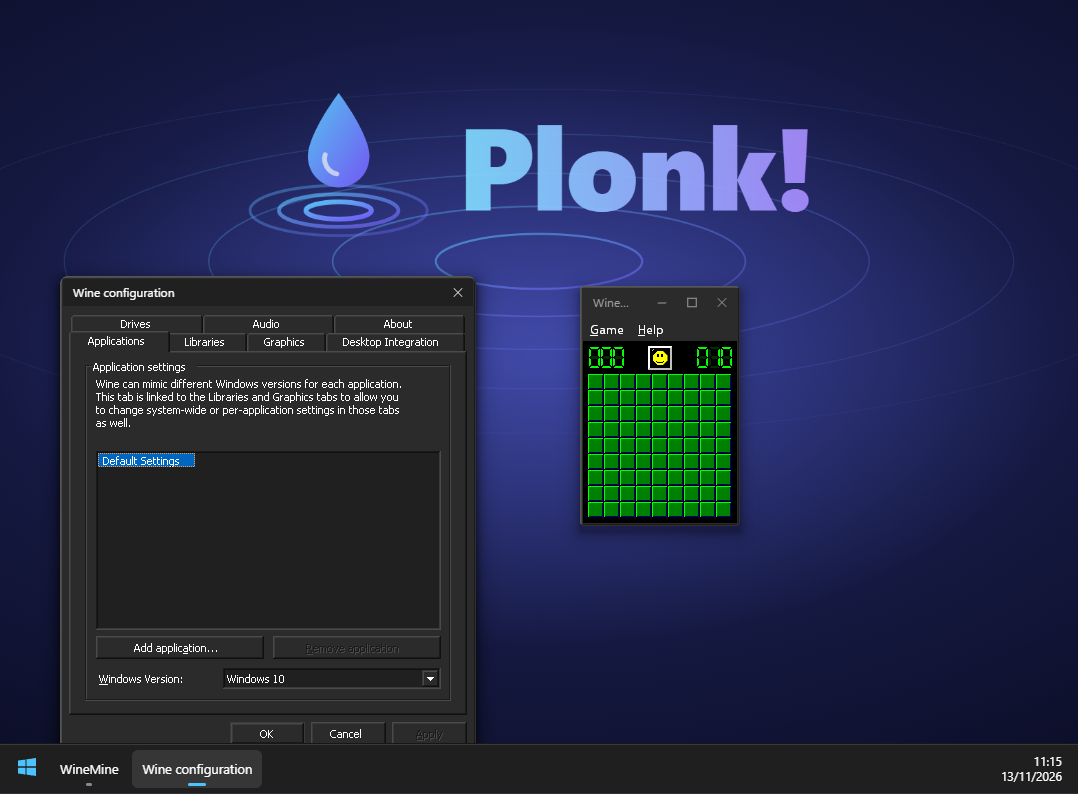
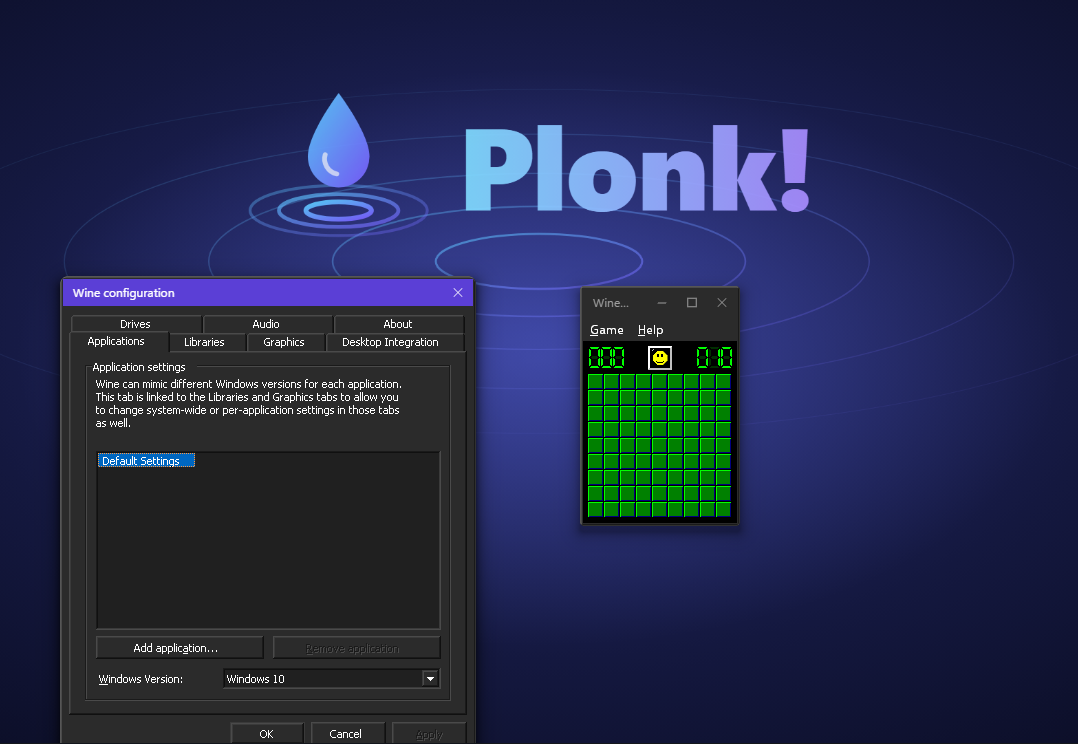
active title bar in an accent colour (violet), inactive stays grey; README screenshot updated

diff --git a/crates/host/src/linux.rs b/crates/host/src/linux.rs
@@ -1459,6 +1459,18 @@ impl LinuxProc {
                 let call = [1, 8, 2, 3, 4, 18, 15, 14, 6, 7, 11, 16, 12, 17, 13][(nr - 359) as usize];
                 self.sock_call(call, [a, b, c, d, e, f])
             }
+            268 | 269 => { // statfs/fstatfs(64): a roomy disk (4 GB, 2 GB free) so installers' free-space checks pass
+                let buf = c;
+                let mut st = [0u8; 84];
+                let put = |st: &mut [u8], off: usize, v: u64| st[off..off + 8].copy_from_slice(&v.to_le_bytes());
+                st[0..4].copy_from_slice(&0xEF53u32.to_le_bytes());
+                st[4..8].copy_from_slice(&4096u32.to_le_bytes());
+                put(&mut st, 8, 1 << 20); put(&mut st, 16, 1 << 19); put(&mut st, 24, 1 << 19); put(&mut st, 32, 1 << 20); put(&mut st, 40, 1 << 19);
+                st[56..60].copy_from_slice(&255u32.to_le_bytes());
+                st[60..64].copy_from_slice(&4096u32.to_le_bytes());
+                let _ = self.mem.write_bytes(buf, &st);
+                Some(0)
+            }
             122 => { // uname: six 65-byte fields
                 let _ = self.mem.write_bytes(a, &[0u8; 390]);
                 for (i, s) in ["Linux", "plonk", "6.1.0", "#1", "i686", "(none)"].iter().enumerate() { let _ = self.mem.write_bytes(a + i as u32 * 65, s.as_bytes()); }

diff --git a/tmp_dx/p2.py b/tmp_dx/p2.py
@@ -1,0 +1,19 @@
+p='crates/host/src/linux.rs'
+s=open(p,encoding='utf8',newline='').read()
+k='            122 => { // uname'
+add='''            99 | 100 | 268 | 269 => { // statfs/fstatfs(64): a roomy disk (4 GB, 2 GB free) so installers' free-space checks pass
+                let buf = if nr >= 268 { c } else { b };
+                let mut st = [0u8; 84];
+                let put = |st: &mut [u8], off: usize, v: u64| st[off..off + 8].copy_from_slice(&v.to_le_bytes());
+                st[0..4].copy_from_slice(&0xEF53u32.to_le_bytes());
+                st[4..8].copy_from_slice(&4096u32.to_le_bytes());
+                put(&mut st, 8, 1 << 20); put(&mut st, 16, 1 << 19); put(&mut st, 24, 1 << 19); put(&mut st, 32, 1 << 20); put(&mut st, 40, 1 << 19);
+                st[56..60].copy_from_slice(&255u32.to_le_bytes());
+                st[60..64].copy_from_slice(&4096u32.to_le_bytes());
+                let _ = self.mem.write_bytes(buf, &st);
+                Some(0)
+            }
+'''.replace('\n','\n')
+assert k in s
+s=s.replace(k,add+k,1)
+open(p,'w',encoding='utf8',newline='').write(s)

diff --git a/crates/host/examples/linuxrun.rs b/crates/host/examples/linuxrun.rs
@@ -91,6 +91,8 @@ fn main() {
         std::fs::write(format!("{f}.files"), p.pristine_files().join(&char::from(10).to_string()) + &char::from(10).to_string()).unwrap(); // what the page loads up front
         std::fs::write(f, t).unwrap();
     }
+    // EXPORT=file.tar: export ~/.wine immediately (no clean shutdown; files only)
+    if let Ok(f) = std::env::var("EXPORT") { std::fs::write(f, p.export_tar("/home/user/.wine")).unwrap(); }
     if std::env::var("SAVE").is_ok() { // shut Wine down cleanly so wineserver writes the registry files
         p.auto_time = true;
         let pid = p.spawn_path(&["/usr/local/bin/wine", "wineboot", "--shutdown"], &env);

diff --git a/tmp_dx/p.py b/tmp_dx/p.py
@@ -1,0 +1,6 @@
+import re
+p='crates/host/examples/linuxrun.rs'
+s=open(p,encoding='utf8',newline='').read()
+k='    if std::env::var("SAVE").is_ok() { // shut Wine'
+s=s.replace(k,'    // EXPORT=file.tar: export ~/.wine immediately (no clean shutdown; files only)\n    if let Ok(f) = std::env::var("EXPORT") { std::fs::write(f, p.export_tar("/home/user/.wine")).unwrap(); }\n'+k,1)
+open(p,'w',encoding='utf8',newline='').write(s)
